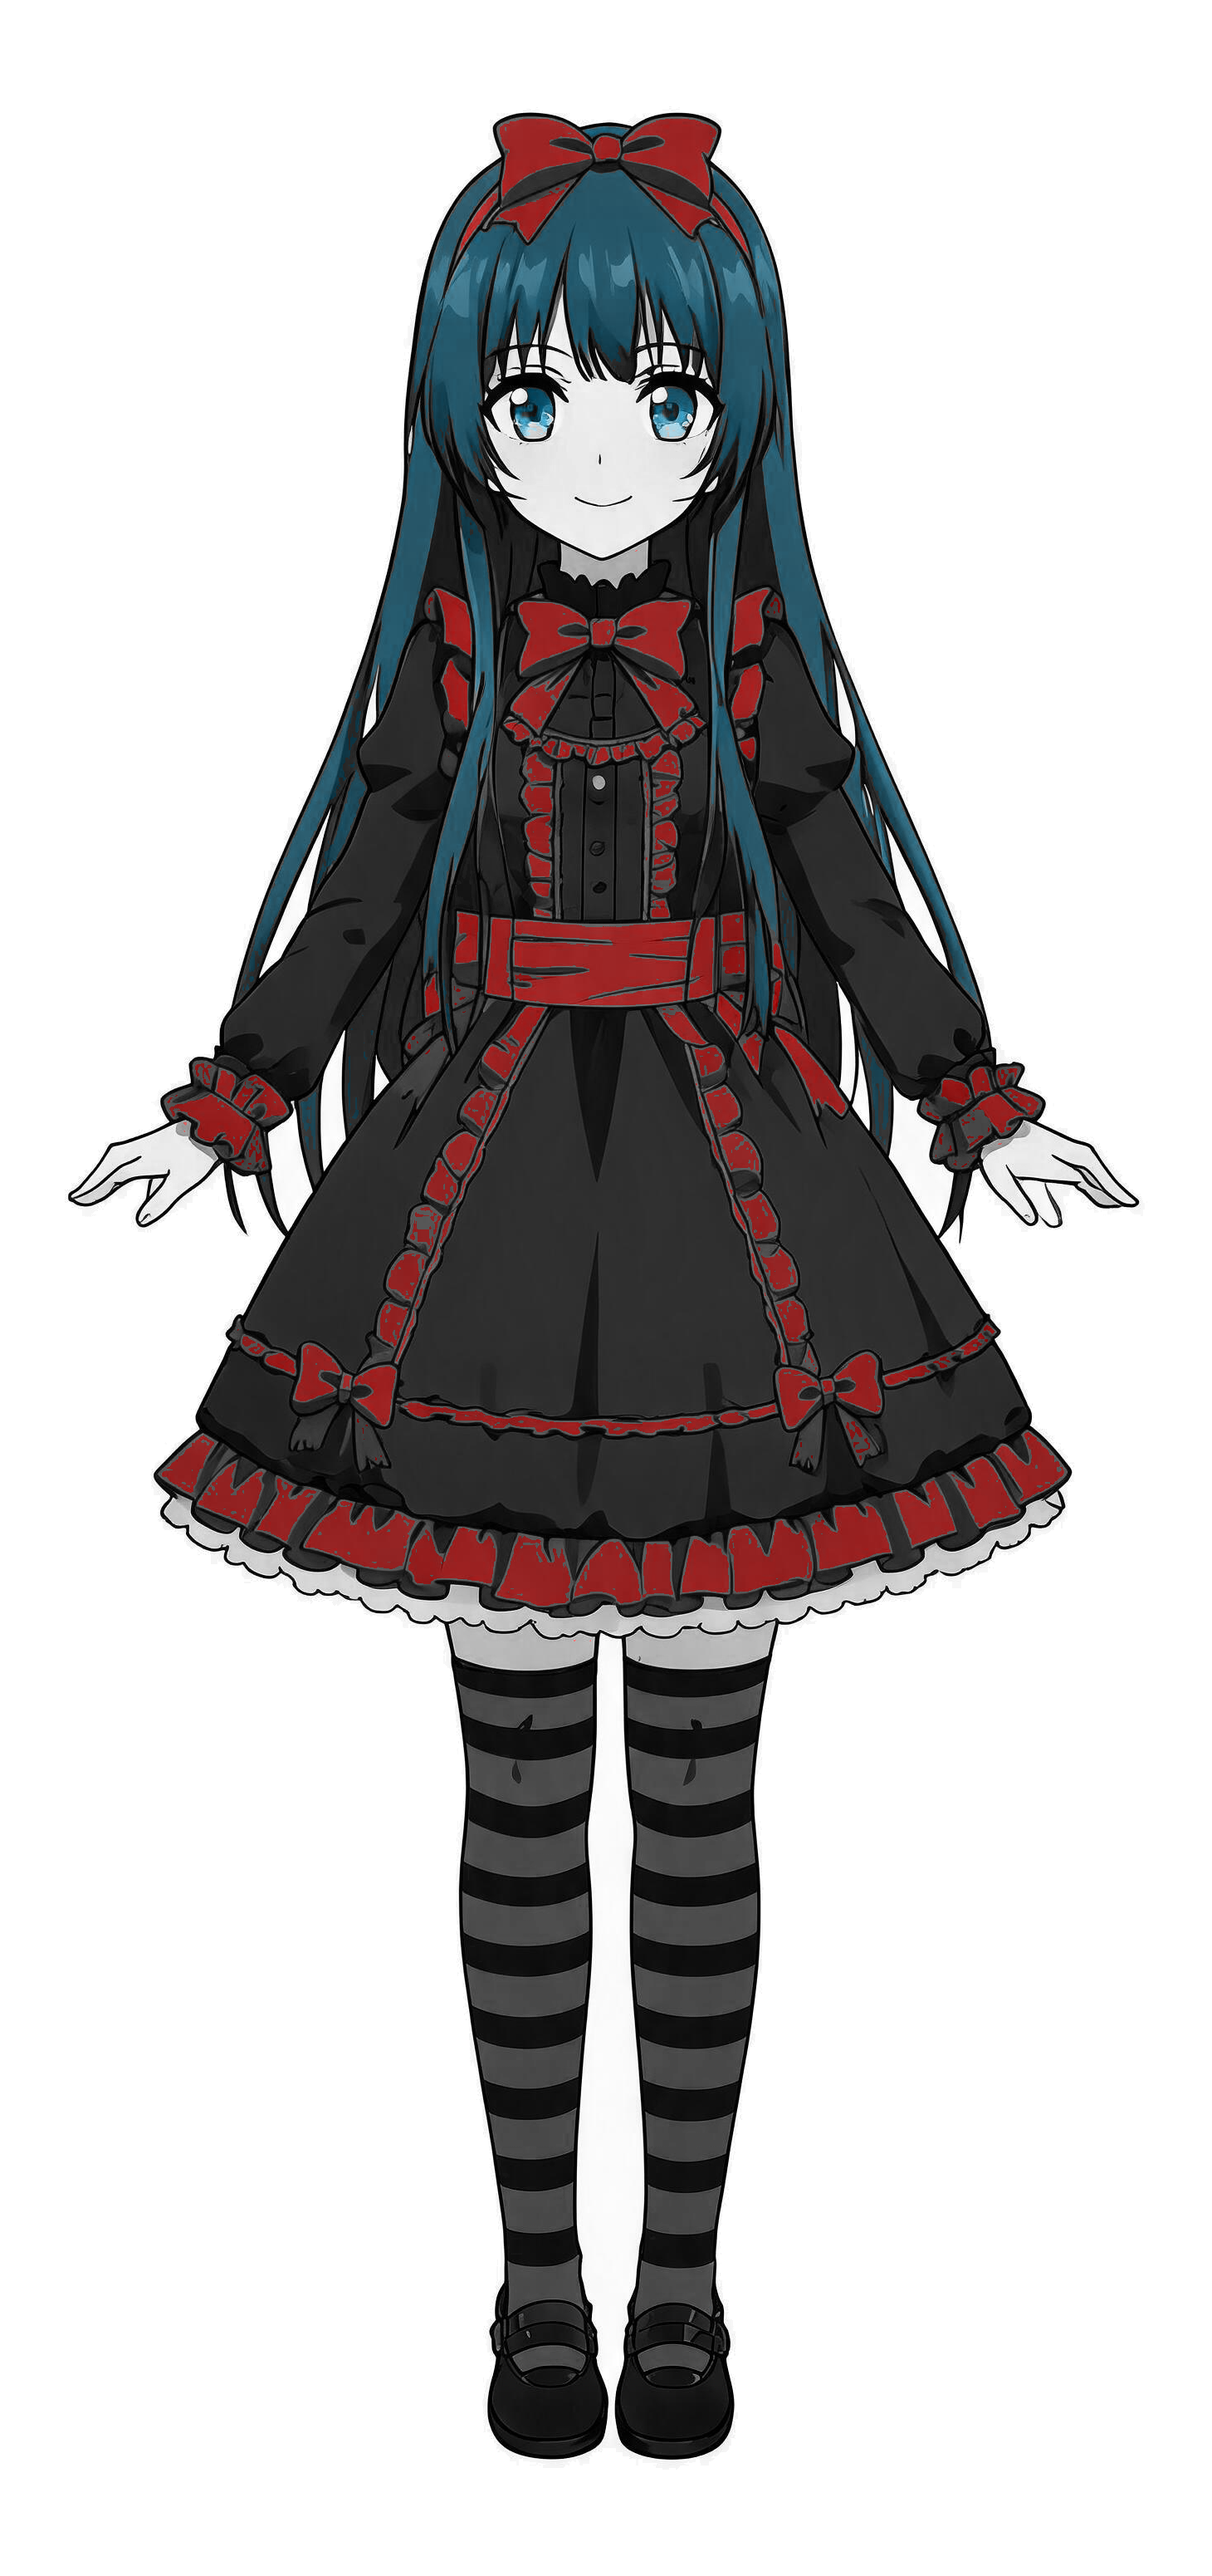
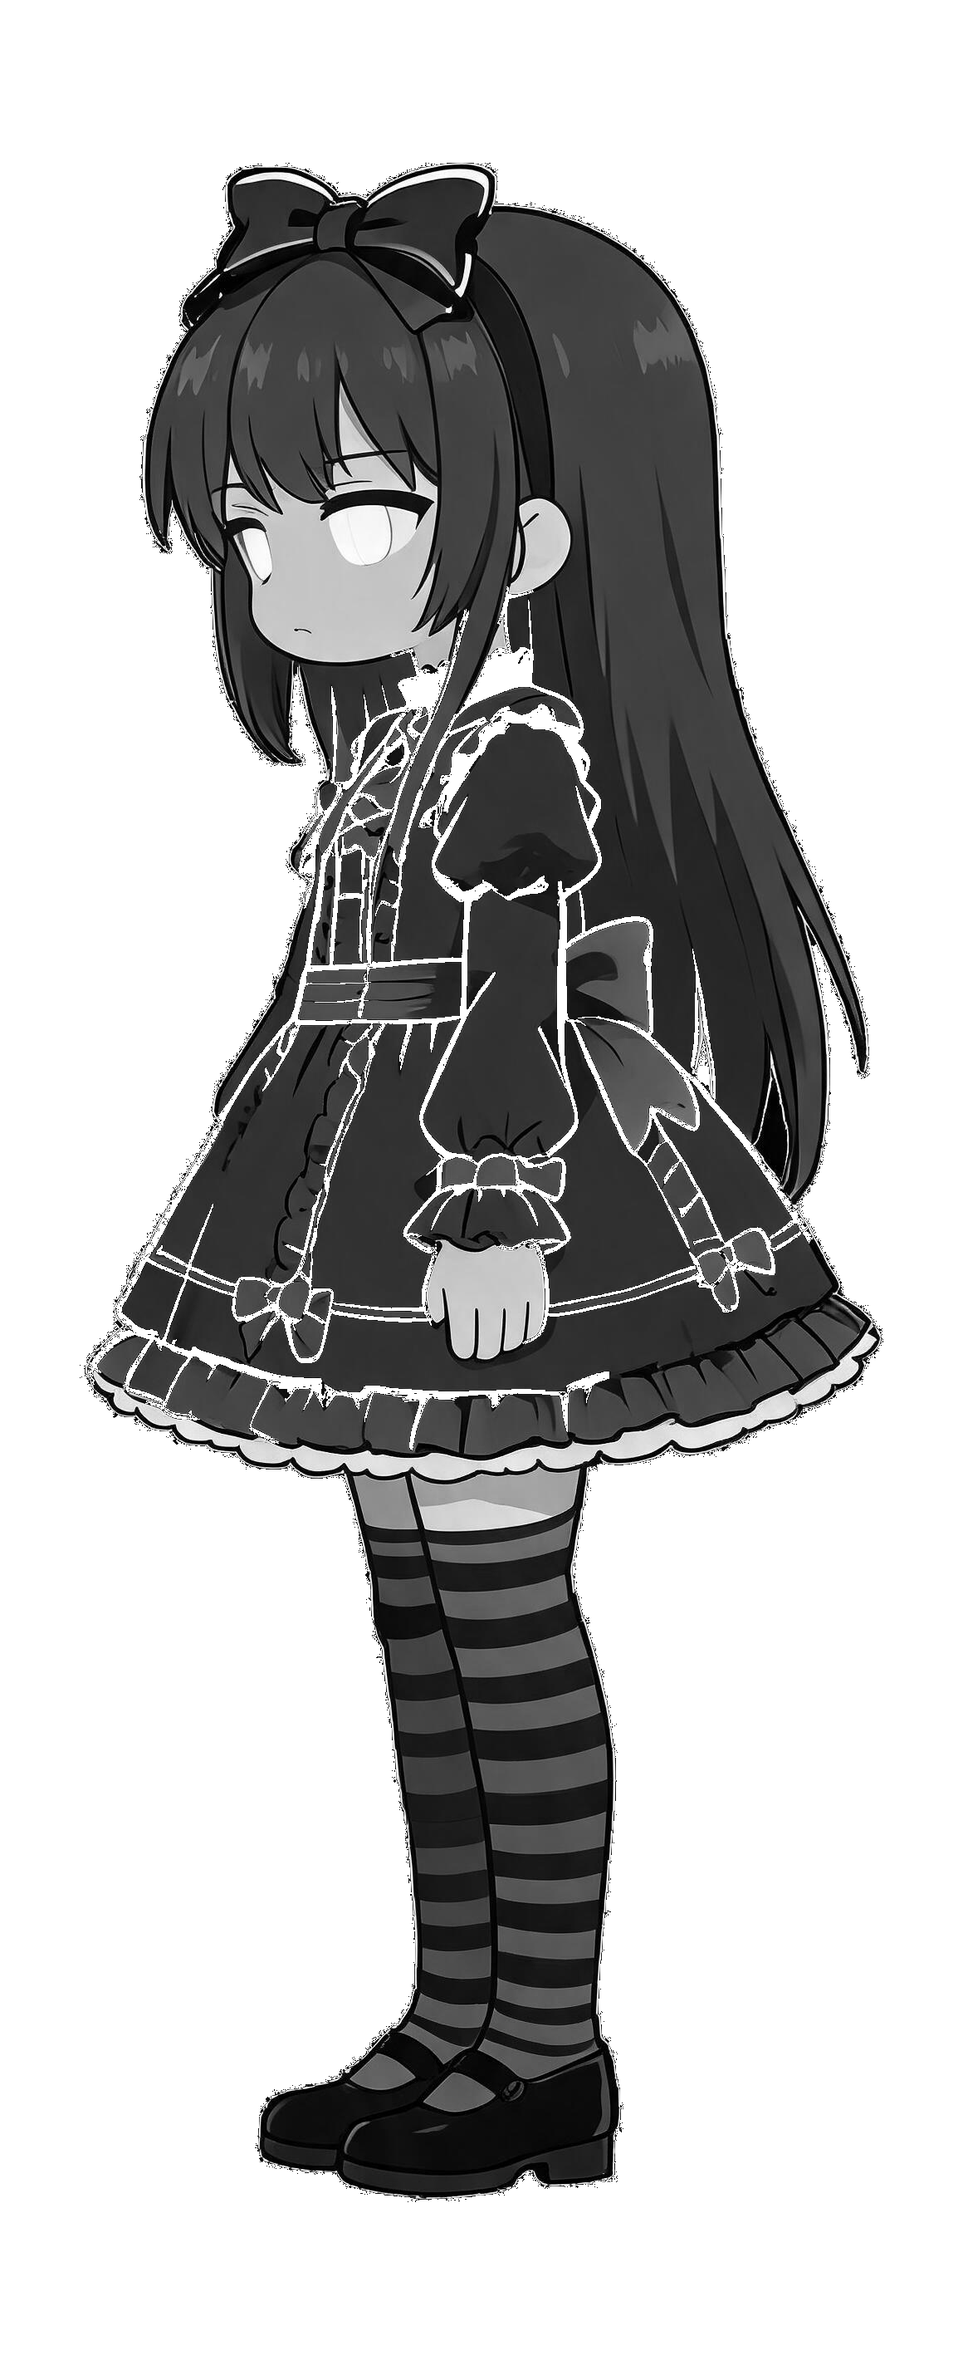
art: 梅贝尔待机立绘按新设定重做（中性灰单色、白点眼、侧身、条纹袜），全图 R=G=B

diff --git a/src/render.js b/src/render.js
@@ -944,7 +944,7 @@ function drawWalkProps(ctx) {
 //   缺失时退回对话立绘（art/portrait/<id>.png）临时顶替，不会崩
 const CHAR_IDLE = {};
 // 换图后浏览器可能用旧缓存，带个版本号强制刷新
-const ART_VER = '?v=7';
+const ART_VER = '?v=8';
 function getCharIdle(id) {
   if (!CHAR_IDLE[id]) {
     if (typeof Image === 'undefined') return null;
